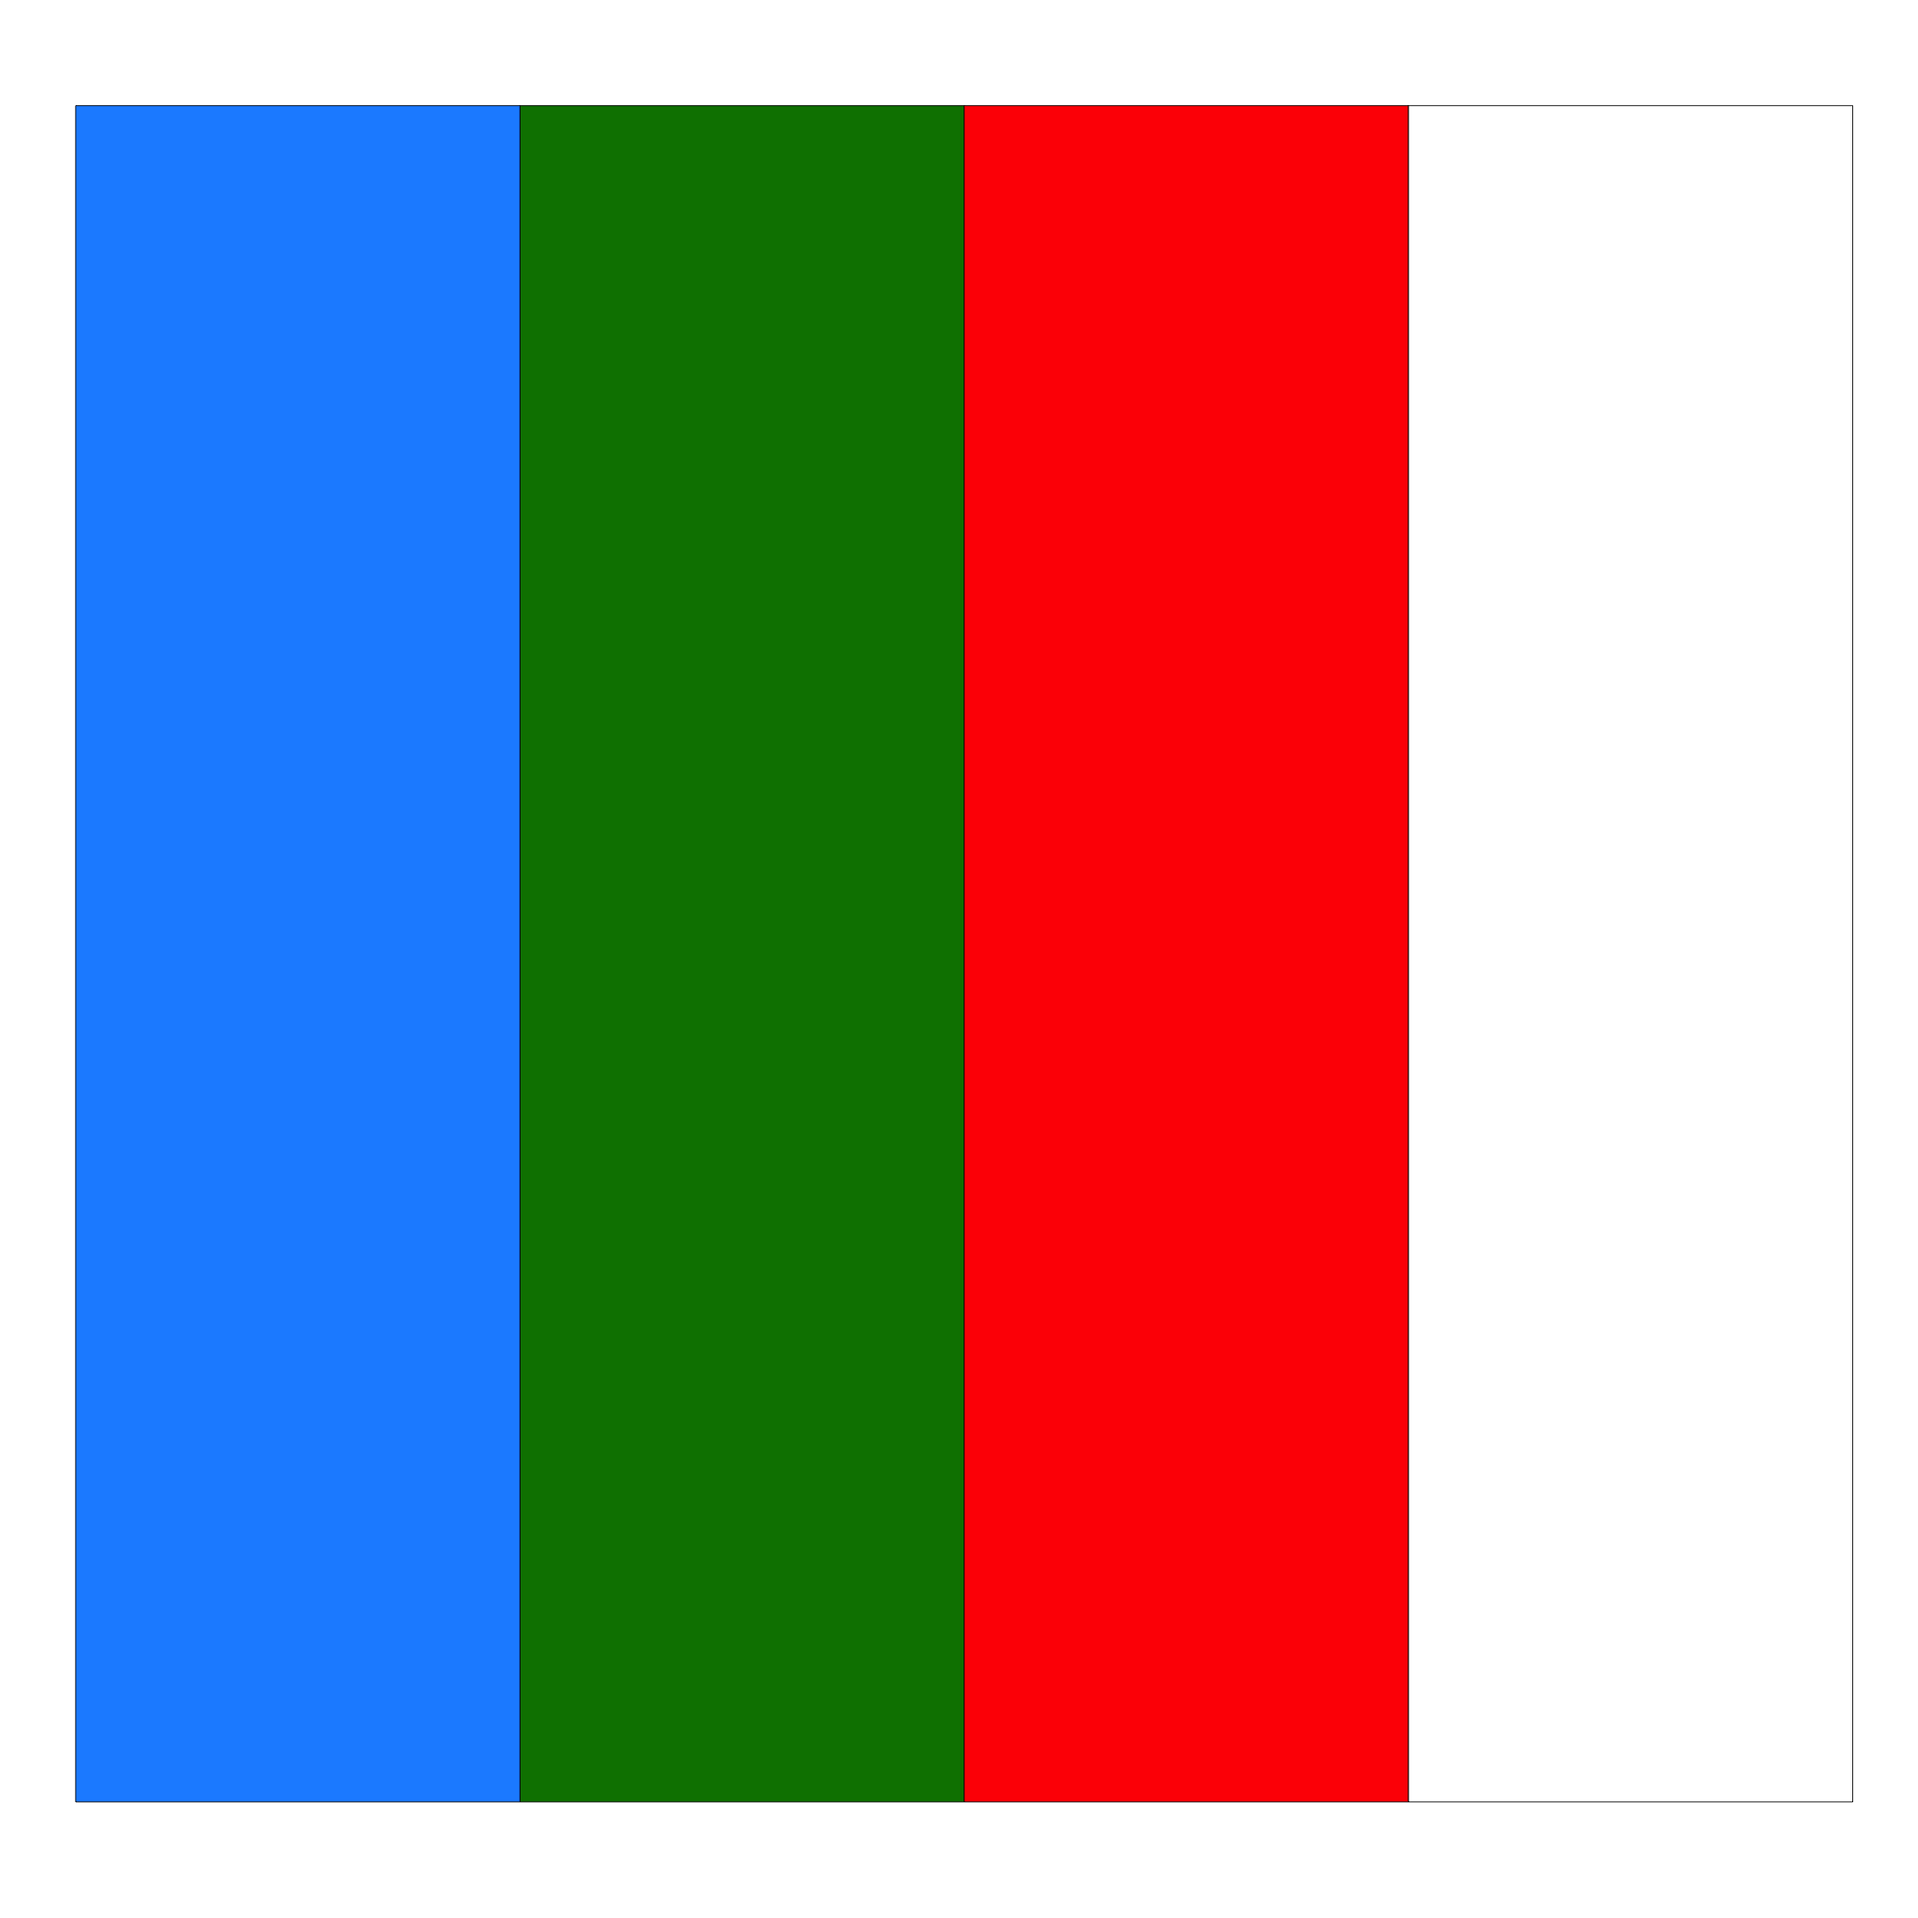
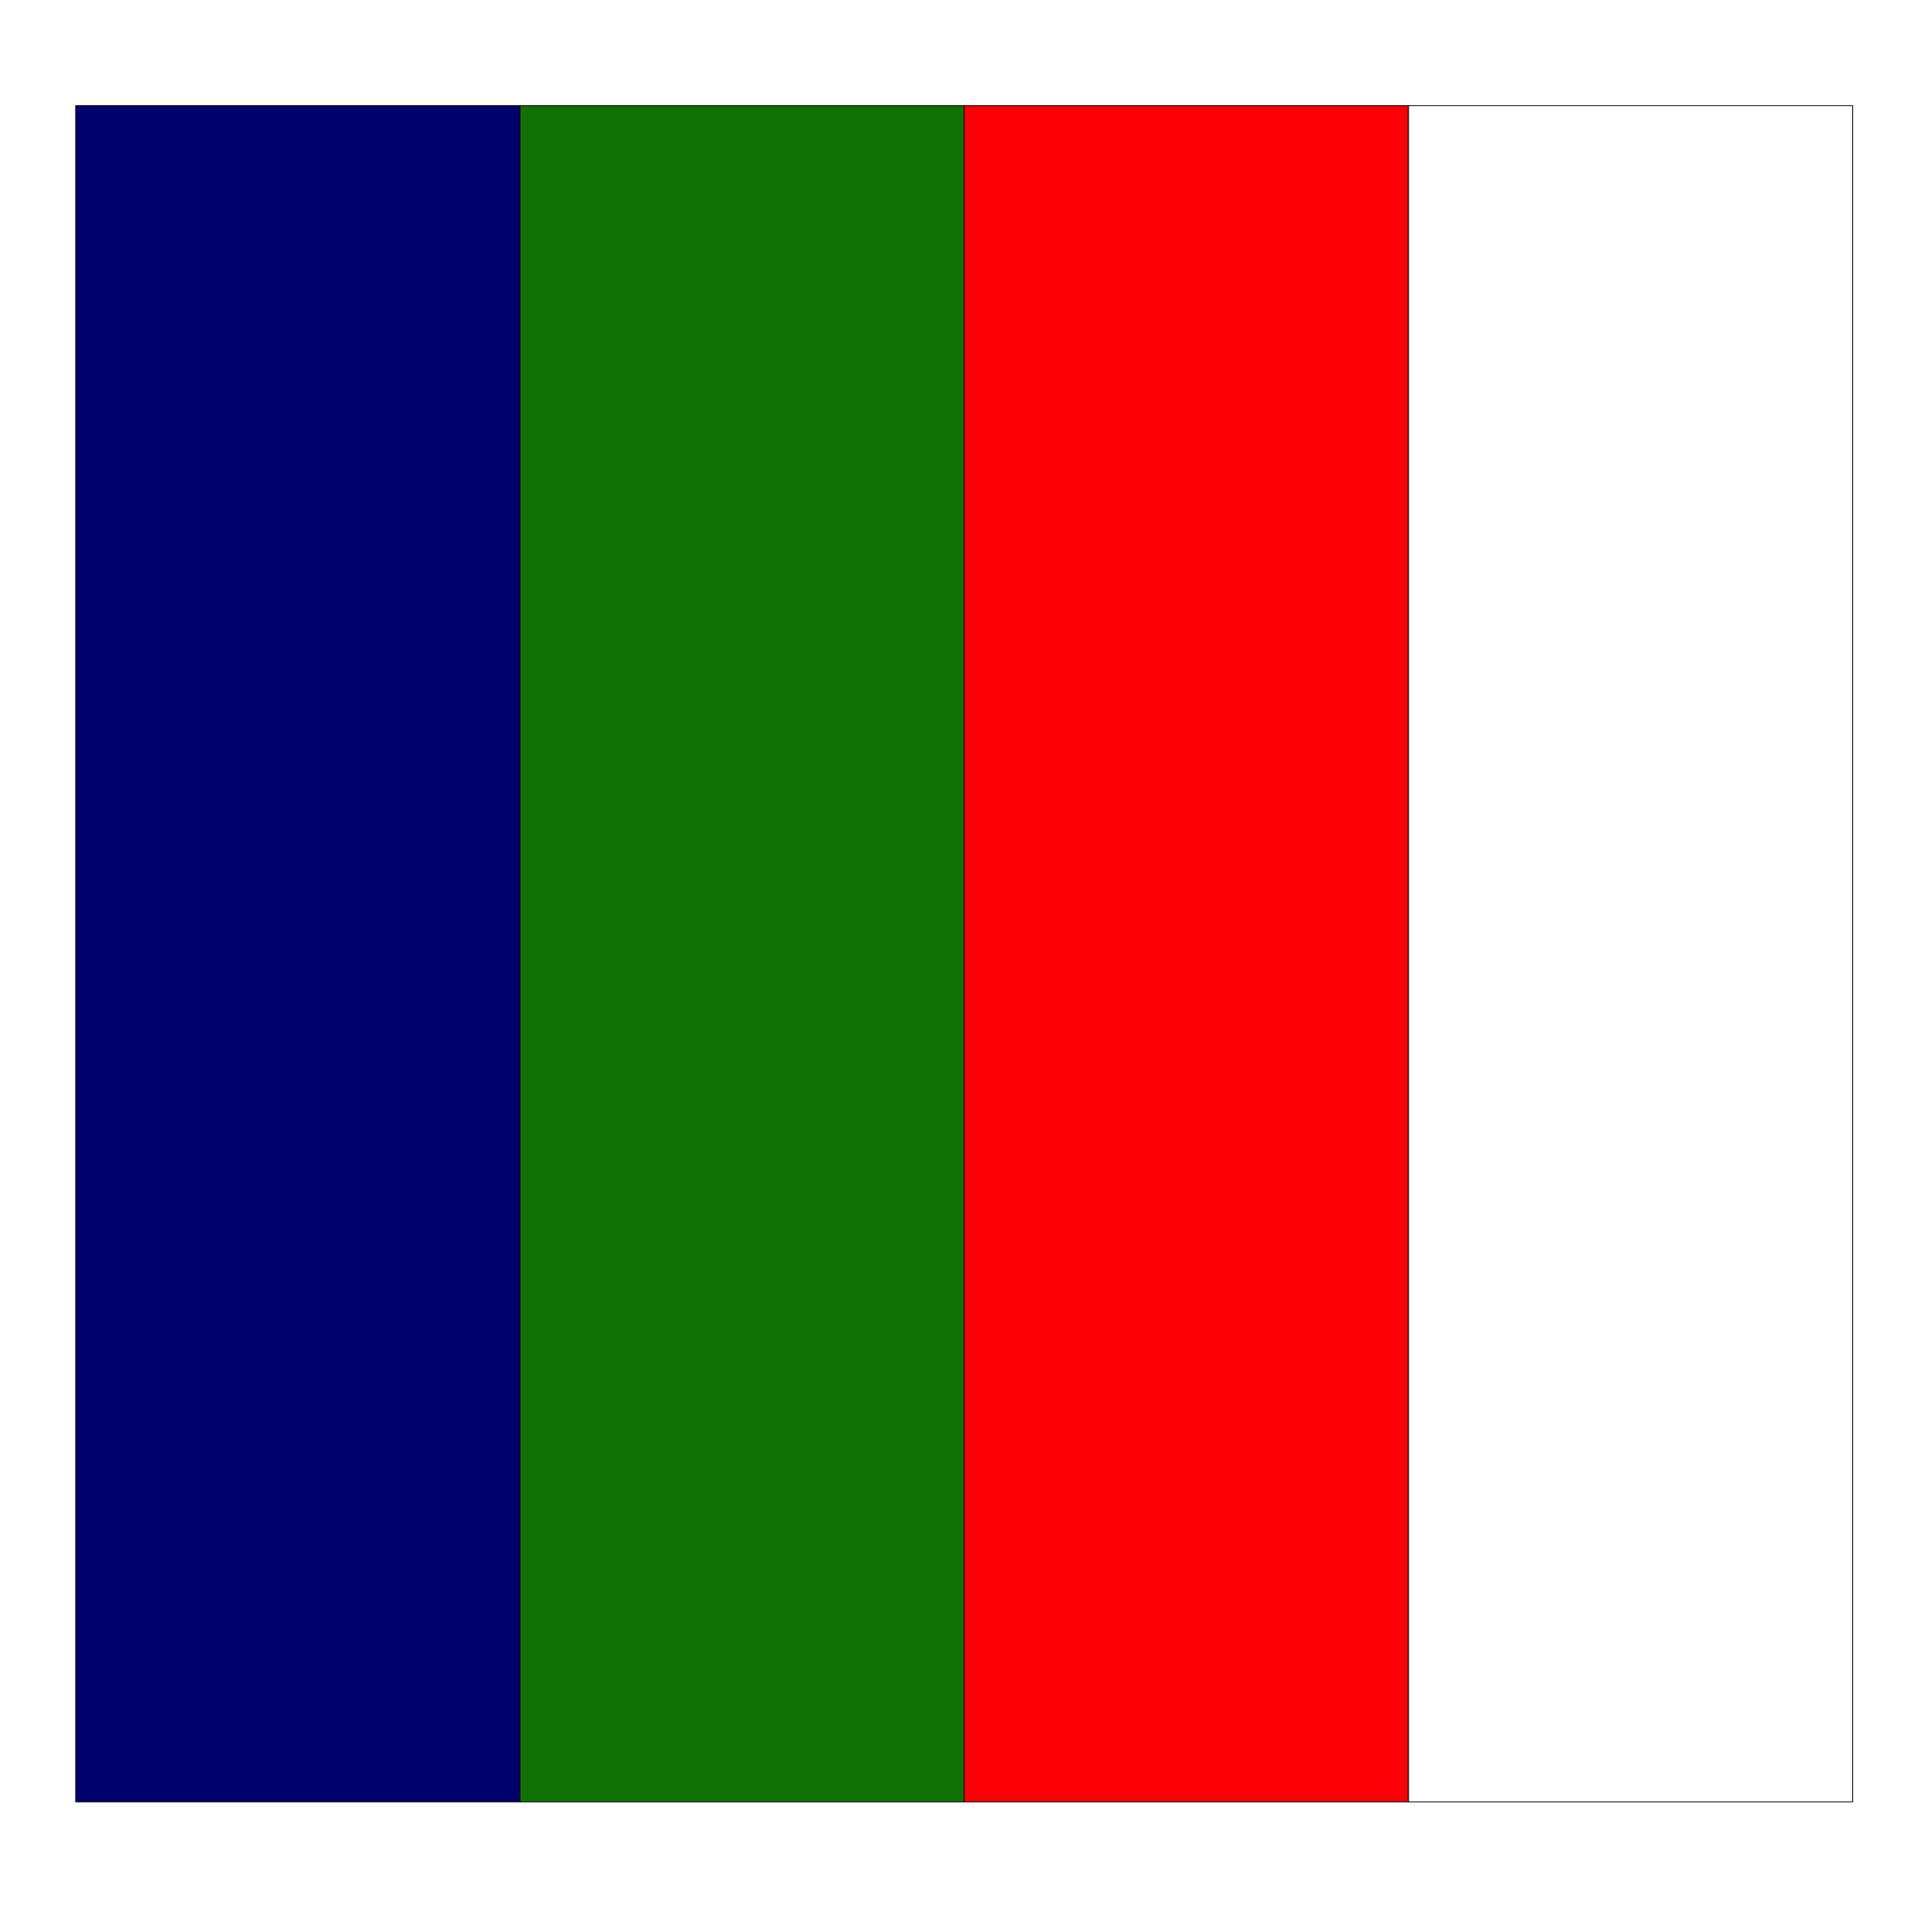
Slight adjustment to hex values

Changed region(s): [[0.031, 0.031, 0.2786, 0.9595]]

diff --git a/README.md b/README.md
@@ -37,7 +37,7 @@ print(unique(nrl_team_colours$team_name))
 #> [11] "Parramatta Eels"               "Penrith Panthers"             
 #> [13] "South Sydney Rabbitohs"        "St. George Illawarra Dragons" 
 #> [15] "Sydney Roosters"               "Wests Tigers"                 
-#> [17] "Dolphins (NRL)"
+#> [17] "Dolphins"
 ```
 
 ### Extracting NRL Team Colour Palette
@@ -48,7 +48,7 @@ The main function is extract a colour palette for a given team name. The number 
 ```r
 ## Extracting the colour palette for Penrith Panthers
 extract_team_palette(team_name="Penrith Panthers", n_colours=4)
-#> [1] "#000000" "#FF0000" "#FFFF00" "#008000"
+#> [1] "#010001" "#ff0101" "#feff00" "#008101"
 ```
 
 ### Extracting NRL Match Day Colours
@@ -58,7 +58,7 @@ Colour palettes can also be extracted based on a given match. That is, colours f
 
 ```r
 extract_matchday_palette(home_team="South Sydney Rabbitohs", away_team="Wests Tigers")
-#> [1] "#FF0000" "#008000" "#FFFFFF" "#000000" "#FFFFFF" "#FC7E00"
+#> [1] "#FF0000" "#018001" "#FFFFFF" "#010001" "#FEFFFF" "#fc7d05"
 ```
 
 ### Visualising NRL Team Colour Palettes
@@ -211,7 +211,7 @@ plot_team_palette("Wests Tigers")
 
 
 ```r
-plot_team_palette("Dolphins (NRL)")
+plot_team_palette("Dolphins")
 ```
 
 <img src="man/figures/README-dolphins_cp-1.png" title="plot of chunk dolphins_cp" alt="plot of chunk dolphins_cp" width="50%" height="50%" />
